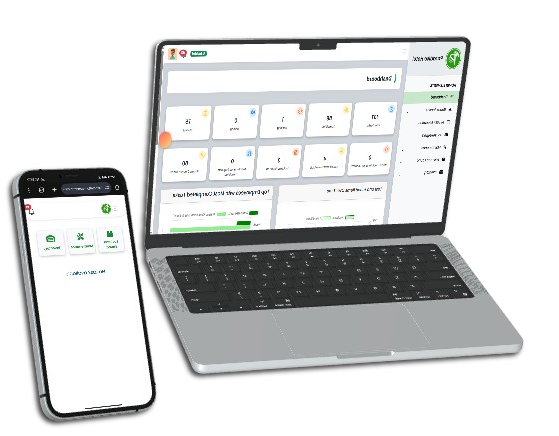
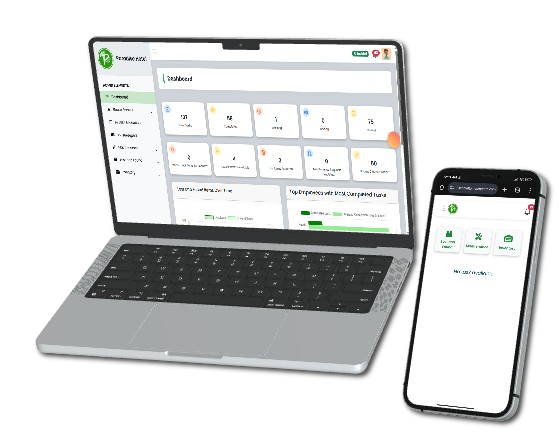
Updated

diff --git a/index.html b/index.html
@@ -163,10 +163,6 @@
             </h2>
 
             <div class="featured-project">
-                <div class="project-image">
-                    <img src="images/mock-up-previewed1.png" alt="Hotel System Mockup">
-                </div>
-
                 <div class="project-details">
                     <h3>Hotel and Restaurant Management System</h3>
                     <p><strong>Focus:</strong> Housekeeping and Maintenance Module</p>
@@ -184,7 +180,13 @@
                     </ul>
                     <a href="https://core3.paradisehoteltomasmorato.com/" class="btn animate" target="_blank">Request Demo</a>
                 </div>
+                <div class="project-image">
+                    <img src="images/mock-up-previewed.png" alt="Hotel System Mockup">
+                </div>
             </div>
+        </div>
+        <div class="project-image-phone" style="width: 600px; height: 600px;">
+            <img src="images/preview.png" alt="Hotel System Mockup">
         </div>
     </section>
 

diff --git a/styles.css b/styles.css
@@ -568,6 +568,22 @@ body.modal-open {
     transform: scale(1.02);
 }
 
+.project-image-phone {
+    display: flex;
+    justify-content: center;
+    align-items: center;
+    width: 600px;
+    height: 600px;
+    margin: 0 auto; /* center the container itself in the parent */
+}
+
+.project-image-phone img {
+  max-width: 100%;
+  max-height: 100%;
+  object-fit: contain; /* makes sure the image scales properly */
+  border-radius: 1rem; /* optional, gives a modern look */
+}
+
 
 .project-details {
     flex: 1;
